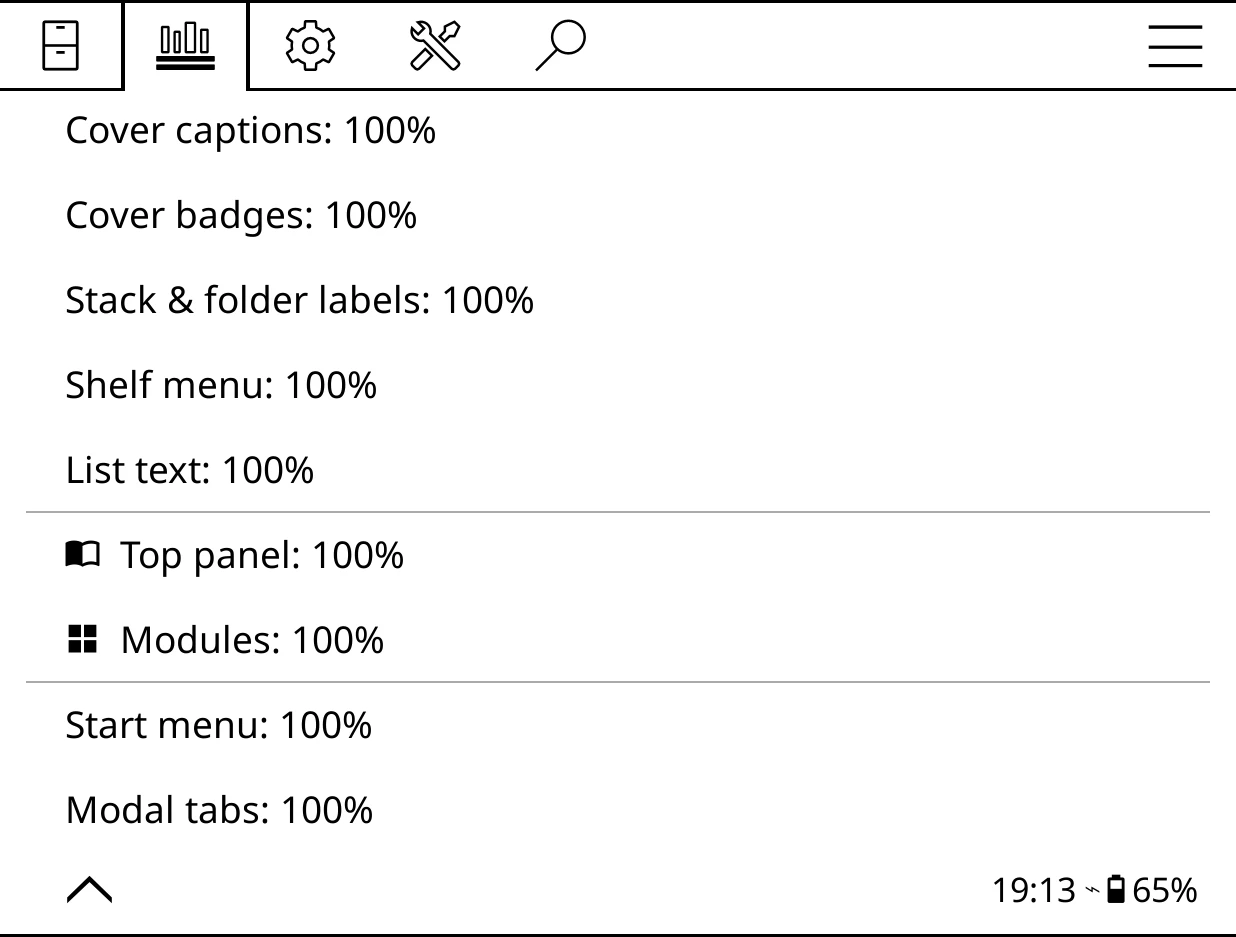
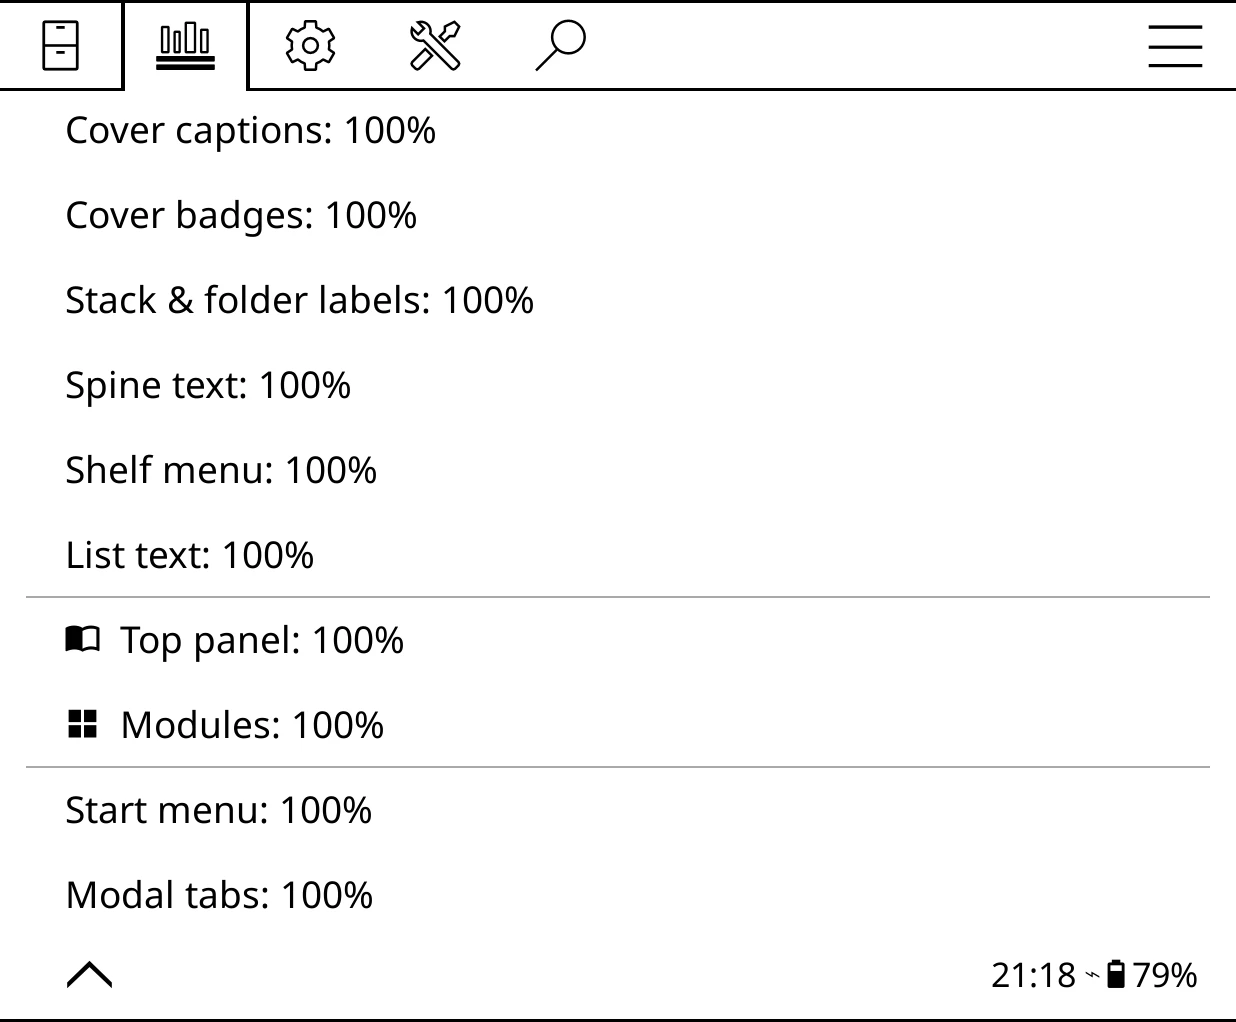
6.4: Decades, %published{format}, series box styles and boxes in Covers/List, book sizes, spine text
Claude-Session: https://claude.ai/code/session_01JgJkg2kpmXwo4V6m4aKBga

diff --git a/docs/reference/menus.md b/docs/reference/menus.md
@@ -475,6 +475,7 @@ Used by the status line, each top panel section, each List view line and custom 
 | **Cover captions** | Text under covers | 300% |
 | **Cover badges** | Series number and page badges | 200% |
 | **Stack & folder labels** | Labels on stack and folder tiles | 300% |
+| **Spine text** | Titles and authors on spines; spines get thicker to fit | 200% |
 | **Shelf menu** | Shelf button labels | 300% |
 | **List text** | List view rows | 300% |
 | **Top panel** | All top panel text | 200% |
@@ -658,6 +659,9 @@ The buttons that open the start menu while reading are under **Advanced > While 
 **Read calibre metadata.calibre**
 :   Reads Calibre's `metadata.calibre` file from your home folder or the folder above it. Default: off. See [Calibre, Kindle and Kobo libraries](../organise/other-libraries.md).
 
+**Genres from calibre only**
+:   For a book in your Calibre library, only Calibre's tags are its genres, never the tags stored in the book file. Greyed out unless **Read calibre metadata.calibre** is on. Default: off.
+
 ## The shelf editor
 
 **Tap the button of the shelf you're on**, **long-press any shelf button**, or tap a shelf in **Edit shelves…**. Titled **Editing shelf: *name***. Every change applies and saves straight away, with the shelf redrawing behind; there is no Save button. For a walkthrough, see [Shelves](../organise/shelves.md) and [Sources, filters and sorting](../organise/sources-filters.md).
@@ -710,8 +714,8 @@ A shelf that has just been made and has no source yet shows **Choose a source to
 | | **Recently read** | Books you have opened, latest first | Opened |
 | | **Latest added** | Files on disk, newest first | Added |
 | | **Favorites** | KOReader's Favorites collection | Opened |
-| **Grouped: a stack for each** | **Series**, **Authors**, **Genres**, **Collections**, **Formats**, **Ratings**, **Languages** | A stack per series, author and so on | Groups by Opened (Series), Surname (Authors), Rating (Ratings) or Books (the rest) |
-| **Just one** | **A series ›**, **An author ›**, **A genre ›**, **A collection ›**, **A format ›**, **A rating ›**, **A language ›** | The books of one of them; once picked, the chip names it (**A series: *name*** ›) | A series: Series #. An author or a rating: Series, Series #, Title. A genre or a language: Surname, Series, Series #. A collection: Collection order, then Opened. A format: Opened |
+| **Grouped: a stack for each** | **Series**, **Authors**, **Genres**, **Collections**, **Formats**, **Ratings**, **Languages**, **Decades** | A stack per series, author and so on | Groups by Opened (Series), Surname (Authors), Rating (Ratings), Published (Decades, newest first) or Books (the rest) |
+| **Just one** | **A series ›**, **An author ›**, **A genre ›**, **A collection ›**, **A format ›**, **A rating ›**, **A language ›**, **A decade ›** | The books of one of them; once picked, the chip names it (**A series: *name*** ›) | A series: Series #. An author or a rating: Series, Series #, Title. A genre or a language: Surname, Series, Series #. A collection: Collection order, then Opened. A format: Opened. A decade: Published, newest first |
 | **More** | **Shelf of shelves** | A shelf that holds other shelves | None |
 | | **OPDS catalog ›** | An online catalogue | Server order |
 | | **Kindle Virtual Library** | The Kindle's own library (Kindle, with its plugin) | Title |
@@ -813,11 +817,14 @@ On a grouped shelf, the first level is **Order the groups by** and cannot be rem
 **Thickness** (Spines)
 :   60% to 200%, in steps of 10%. Default: 100%.
 
+**Book sizes** (Spines)
+:   **Varied**: height from the cover's shape and thickness from the page count. **Same**: every book, face-out ones too, at one size. Default: Varied.
+
 **Book binding** (Spines)
 :   **Hardback**, the classic look, or **Paperback**, with thin flush covers, softer shading and lighter page edges. A series can have its own from its long-press menu. Default: Hardback.
 
 **Series boxes** (Spines)
-:   **On** stands each series in an open slipcase. Default: Off.
+:   **Off**, or each series in an open slipcase: **Cover** (the first cover on the front), **Plain** (the series name on a bare front) or **Spines** (the books spine-out, with the first cover printed across them). Default: Off.
 
 **Author on spine** (Spines)
 :   **On** or **Off**. Default: On.
@@ -832,6 +839,9 @@ On a grouped shelf, the first level is **Order the groups by** and cannot be rem
 
 **Cover captions: *choice*** (Covers)
 :   Opens a page: **Default**, **None**, **Title**, **Author**, **Series**, or **A line of your own ›**, which opens the line editor. Default: Default.
+
+**Series boxes** (Covers and List)
+:   **On** or **Off**. On a shelf of books, and inside an author or other group, a series' books share one tile. On keeps the style picked on a spines shelf. Default: Off.
 
 ### Catalog settings
 

diff --git a/docs/reference/whats-new.md b/docs/reference/whats-new.md
@@ -4,9 +4,35 @@ description: What's new in recent versions of Bookshelf, with links to where eac
 
 # What's new
 
-<span class="tag">These pages describe Bookshelf 6.3.3</span>
+<span class="tag">These pages describe Bookshelf 6.4.0</span>
 
 Full release notes for every version are on [GitHub Releases](https://github.com/AndyHazz/bookshelf.koplugin/releases), and in the app under **Bookshelf > Updates > View changelog**.
+
+## 6.4
+
+**Decades**
+:   A new grouped source stacks your books by the decade they were published, newest first, with **Unknown** last. **A decade ›** makes a shelf of just one. [More](../organise/sources-filters.md#sources)
+
+**Publication date in your own layout**
+:   `%published{%d %B %Y}` gives the full date, such as *14 March 1965*. A book whose date has no month or day shows the shorter form. [More](../reference/tokens.md#book)
+
+**Series box styles**
+:   On a spines shelf, **Series boxes** can be **Cover**, **Plain** (the name on a bare front) or **Spines** (the books spine-out, with the first cover printed across them). [More](../organise/groups.md#series-boxes)
+
+**Series boxes in Covers and List**
+:   **View mode > Series boxes** on a Covers or List shelf gives each series one tile, on a shelf of books and inside an author or other group. [More](../organise/groups.md#series-boxes)
+
+**Book sizes and spine text**
+:   **Book sizes: Same** stands every book on a spines shelf at one size. **Bookshelf > Settings > Text size > Spine text** makes spine titles bigger or smaller; spines get thicker to fit. [More](../use/shelf-styles.md#spines)
+
+**Smaller things**
+:   Inside a shelf of shelves, tap the shelf's own name in the breadcrumb to edit it. **Genres from calibre only** ignores a book file's old tags once Calibre has retagged it. The top panel's description can be justified. List rows lose the small arrow on the right. Shelves from other plugins can use Spines when the plugin allows it.
+
+**Faster**
+:   The next pages are made ready while you read, so most page turns are instant, and turning back to a page you just left is much quicker. Switching shelves and starting up are faster, most of all on older Kindles, and Bookshelf frees its memory when you close it.
+
+**Fixes**
+:   Books with no series number come after the numbered ones, by title. Disabling or deleting the shelf on screen no longer leaves the next shelf wearing its theme. Some EPUB 3 books now show their publication date, and Hardcover's year is only used with **Use Hardcover metadata** on.
 
 ## 6.3.2
 

diff --git a/docs/organise/groups.md b/docs/organise/groups.md
@@ -1,10 +1,10 @@
 ---
-description: Series, author and genre shelves, series boxes on spines, author name formatting and author photos.
+description: Series, author and genre shelves, series boxes, author name formatting and author photos.
 ---
 
 # Series, authors and genres
 
-Grouped shelves show one stack per series, author, genre, collection, format, rating or language. Tap a stack to open it. These come from each book's own metadata, or from Calibre's if you use [Calibre metadata](other-libraries.md#calibre).
+Grouped shelves show one stack per series, author, genre, collection, format, rating, language or decade. Tap a stack to open it. These come from each book's own metadata, or from Calibre's if you use [Calibre metadata](other-libraries.md#calibre).
 
 A book with several authors, genres or collections appears under each of them. To show it only once, turn on **Bookshelf > Settings > Library & search > Show each book in one group only**: it stays under its first author or genre, or the collection highest in KOReader's collection list. Search and filters still find it under all of them.
 
@@ -20,7 +20,9 @@ Elsewhere, the **#3** badge on a cover says where a book sits in its series. Cho
 
 ### Series boxes
 
-On a spines shelf, set **View mode > Series boxes** to **On** and each series stands as an **open slipcase** holding its books, with the first cover on the front as a sticker and a count of how many you've read, like "2 / 8". Tap a box to open the series, its books face out in order.
+On a spines shelf, set **View mode > Series boxes** and each series stands as an **open slipcase** holding its books, with a count of how many you've read, like "2 / 8". Pick the front: **Cover** (the first cover as a sticker), **Plain** (just the series name) or **Spines** (the books spine-out, with the first cover printed across them). Tap a box to open the series, its books face out in order.
+
+On a Covers or List shelf, **View mode > Series boxes** is **On** or **Off**: each series gets one tile, on a shelf of books and inside an author or other group.
 
 A series with only one book on the shelf stays an ordinary book.
 

diff --git a/docs/use/shelf-styles.md b/docs/use/shelf-styles.md
@@ -72,6 +72,7 @@ On the **View mode** page:
 |---------|--------------|
 | **Folder tiles** | How folders, series and authors look: **Divider card**, **Ribbon**, **Book stack**, **Collage**, **Text** or **None**. **Default setting** follows the library-wide choice in **Bookshelf > Settings > Cover display > Default folder style**. |
 | **Cover captions** | The line under each cover: **Default** (what **Cover display** says), **None**, **Title**, **Author** or **Series**, or **A line of your own**, built from [tokens](../reference/tokens.md). |
+| **Series boxes** | **On** gives each series one tile, on a shelf of books and inside an author or other group. List view has it too. |
 
 !clip folder-style | Default folder style: from Divider card to Ribbon.
 
@@ -121,8 +122,9 @@ Tap a spine and the book lifts off the shelf into the top panel. Tap it again to
 | **Face out** | Which books turn to show their cover. See below. |
 | **Rows** | How many shelves fit on the screen. **Auto** fits the space. |
 | **Thickness** | Fatter or thinner spines across the board, 60% to 200% (100% to begin with). |
+| **Book sizes** | **Varied** takes each book's height from its cover and thickness from its page count. **Same** stands every book at one size. |
 | **Book binding** | **Hardback** or **Paperback**: thin flush covers, softer shading and lighter page edges. A series can have its own from its long-press menu. |
-| **Series boxes** | **On** stands each series as an open slipcase holding its books, with the first cover as a sticker and a read count. Tap one to open the series. |
+| **Series boxes** | Stands each series as an open slipcase holding its books, with a read count: **Cover** puts the first cover on the front, **Plain** just the series name, **Spines** the books spine-out with the first cover across them. Tap one to open the series. |
 | **Author on spine** | **On** prints the author under the title. |
 | **Ornaments** | How often [ornaments](../customise/ornaments.md) stand in the gaps: **None**, **Rarely**, **Often** or **Always**. |
 

diff --git a/docs/reference/tokens.md b/docs/reference/tokens.md
@@ -168,6 +168,7 @@ In the top panel and status line, `[font=NAME]` sets the font for the whole sect
 | `%format` | File format | *EPUB* |
 | `%size` | File size | *2.2 MB* |
 | `%published` | Publication year: a date you set in the book menu's Edit tab, else Hardcover's first-published year (with **Use Hardcover metadata** on), else Calibre's (with **Read calibre metadata.calibre** on), else the OPDS catalogue's (kept when you download a book), else the book file's (EPUB, FB2, MOBI, AZW3, comics, PDF). Empty when there is none. Try `%authors_short [if:published](%published)[/if]`. | *1965* |
+| `%published{format}` | The publication date in your own layout, with `%d` or `%-d` (day, with or without a leading zero), `%A` or `%a` (weekday), `%B` or `%b` (month name, long or short), `%m` (month number), and `%Y` or `%y` (year). A book whose date has no day or month shows the short form instead, such as *Mar 1965* or *1965*. | `%published{%d %B %Y}`: *14 March 1965* |
 | `%added` | Date the file was added | *2026-05-04* |
 | `%lang` | Language | *en* |
 | `%description` | The blurb, with formatting removed | |

diff --git a/docs/organise/other-libraries.md b/docs/organise/other-libraries.md
@@ -16,7 +16,7 @@ What you get:
 
 - **Calibre wins.** Its title, authors, series, tags, language and description are used over the ones inside the book file, so edits in Calibre show up without converting books again.
 - **Author sort.** Calibre's "Le Guin, Ursula K." orders your author shelves, hand edits included.
-- **Tags as genres**, for genre shelves and filters.
+- **Tags as genres**, for genre shelves and filters. After retagging in Calibre, turn on **Genres from calibre only** (just below the Calibre switch) so a book file's old tags don't come back as genres of their own.
 - **A second series.** A book's series from a custom column of the Series type joins the Series shelf too, each with its own number.
 - **Any custom column in a line.** A column `#mood` shows with the token `%calibre{mood}` anywhere [tokens](../reference/tokens.md) work, including conditions like `[if:calibre{mood}="cosy"]`.
 - **Page counts** from a `#pages` column, for [Extract page counts](page-counts.md).

diff --git a/docs/customise/layout.md b/docs/customise/layout.md
@@ -58,7 +58,7 @@ List and spine shelves have their own row counts, in each shelf's **View mode**.
 
 !shot:side text-size-menu | Settings > Text size.
 
-**Bookshelf > Settings > Text size** scales each part on its own: **Cover captions**, **Cover badges**, **Stack & folder labels**, **Shelf menu**, **List text**, **Top panel**, **Modules**, **Start menu** and **Modal tabs** (the tabs in a book's menu).
+**Bookshelf > Settings > Text size** scales each part on its own: **Cover captions**, **Cover badges**, **Stack & folder labels**, **Spine text**, **Shelf menu**, **List text**, **Top panel**, **Modules**, **Start menu** and **Modal tabs** (the tabs in a book's menu).
 
 Each opens a slim page at the bottom of the screen, so the shelf behind shows the change as you make it. Its title gives the size (**Shelf menu font scale: 118%**, say).
 

diff --git a/docs/reference/gestures.md b/docs/reference/gestures.md
@@ -64,7 +64,7 @@ The row of shelf buttons under the top panel.
 | Gesture | What it does | Switch |
 |---|---|---|
 | Tap a shelf | Switches to it | Always on |
-| Tap the shelf you are on | Opens its [shelf editor](menus.md#the-shelf-editor) | **Tap the current shelf's button to edit the shelf** |
+| Tap the shelf you are on, or its name in a shelf of shelves' breadcrumb | Opens its [shelf editor](menus.md#the-shelf-editor) | **Tap the current shelf's button to edit the shelf** |
 | Long-press a shelf | Opens the [shelf editor](menus.md#the-shelf-editor) | **Long-press a shelf button to edit the shelf** |
 | Swipe left / right | Shows more shelves when they don't all fit | **Swipe the shelf buttons to see more of them** |
 | Tap the book icon | Shows the book you are reading in the top panel and leaves full screen | Always on |

diff --git a/docs/organise/sources-filters.md b/docs/organise/sources-filters.md
@@ -37,6 +37,8 @@ Tap the **Source / grouping** card in the shelf editor. The Source page has four
 
 **Just one**: a shelf of one series, author and so on, picked from a list.
 
+**Decades** goes by the year `%published` shows, newest decade first, with books that have no year under **Unknown** at the end.
+
 | A stack for each | Just one |
 |------------------|----------|
 | **Series** | **A series ›**: one series, in order |
@@ -46,6 +48,7 @@ Tap the **Source / grouping** card in the shelf editor. The Source page has four
 | **Formats** | **A format ›**: EPUB, PDF, CBZ… |
 | **Ratings** | **A rating ›**, including **Unrated** |
 | **Languages** | **A language ›** |
+| **Decades** | **A decade ›**: the books published in the 1980s, say |
 
 **More**
 

diff --git a/docs/customise/top-panel.md b/docs/customise/top-panel.md
@@ -79,7 +79,7 @@ Tapping a section opens the **line editor**. The panel behind updates as you typ
 - The **text box** holds the line. Words starting with `%` are [tokens](../reference/tokens.md), replaced with the book's details: `%title`, `%authors`, `%book_pct`.
 - **Regular** steps through Bold, Italic and Bold italic.
 - **Size** and **Font…**, each font shown in its own typeface.
-- **Aa** for capitals, and the alignment button.
+- **Aa** for capitals, and the alignment button: left, centre, right, and for the description, justified.
 - On **Progress**: **Bar style** (Bordered, Solid, Rounded, Metro, Wave, Pacman), **+ Bar** and **Bar height**.
 - **Tokens…** and **Icons…** insert a token or a glyph.
 - **Save**, or **Cancel** to leave it as it was.

diff --git a/docs/use/navigation.md b/docs/use/navigation.md
@@ -42,7 +42,7 @@ Tap a folder, series, author or genre to open it. The shelf menu turns into a **
 
 To come back out:
 
-- tap any pill in the breadcrumb to jump to that level;
+- tap any pill in the breadcrumb to jump to that level (inside a shelf of shelves, tapping the shelf you are on opens its settings instead);
 - swipe right past the first page;
 - or press your device's **Back** button.
 
